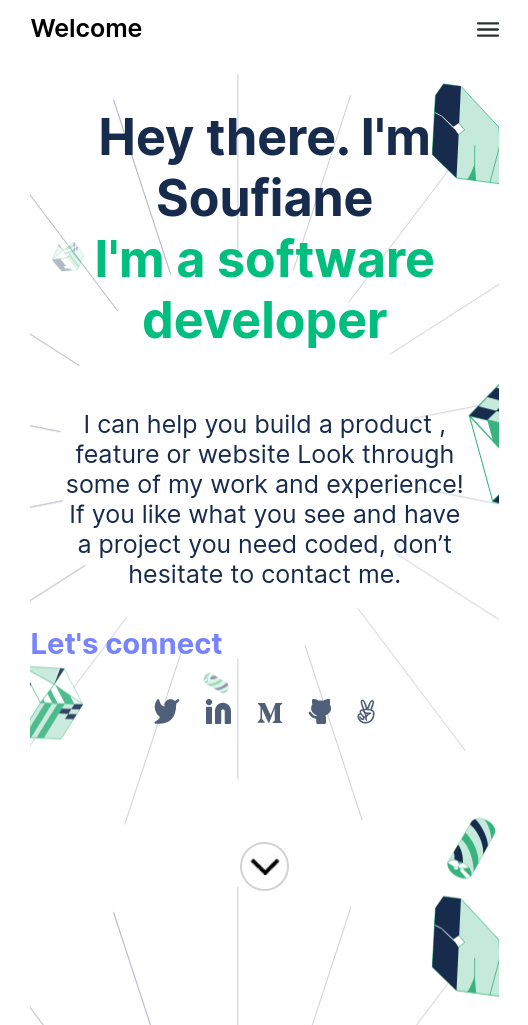
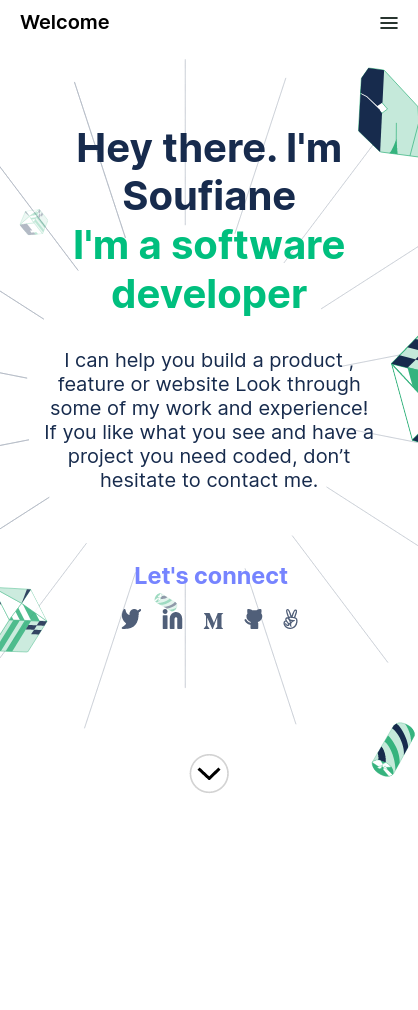
Update app screenshot

diff --git a/style.css b/style.css
@@ -7,11 +7,11 @@
 * {
   margin: 0;
   padding: 0;
-  box-sizing: content-box;
 }
 
 body {
   box-sizing: content-box;
+  width: 100%;
   height: 1000px;
   padding-top: 10px;
   background-color: var(--background-color);
@@ -35,7 +35,7 @@ nav {
 .headline-section {
   background-image: url(/resources/headline-section-background.svg);
   background-repeat: no-repeat;
-  background-size: cover;
+  background-size: 100% auto;
   height: 700px;
   padding-top: 50px;
   display: flex;
@@ -45,11 +45,11 @@ nav {
 }
 
 .headline-section > * {
-  padding-left: 7%;
-  padding-right: 7%;
+  margin: 0 10%;
 }
 
 .hello {
+  margin: 0 15%;
   font-size: 40px;
   font-weight: 700;
   text-align: center;
